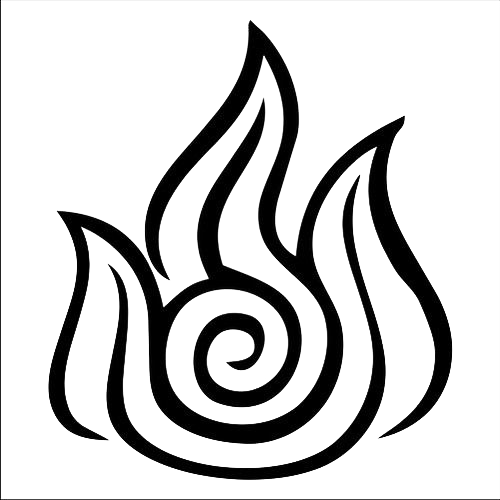
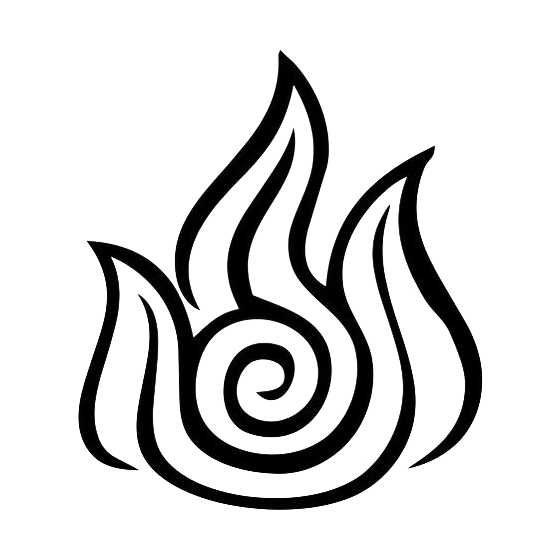
Fix(Elements): eliminate image crop border lines from PNGs and expand crest size to half-screen in the corner

Changed region(s): [[0.09, 0.03, 0.93, 0.96], [0.0, 0.99, 1.0, 1.0]]

diff --git a/index.html b/index.html
@@ -6927,11 +6927,13 @@ body.el-theme .el-theme-fx {
 /* --- СТИХИЯ: СВЯЩЕННЫЕ СИМВОЛЫ СТИХИЙ НА ФОНЕ (ELEMENTAL CRESTS) --- */
 .el-theme-crest {
   position: absolute;
-  bottom: clamp(20px, 5vh, 70px);
-  right: clamp(15px, 4vw, 70px);
-  width: clamp(230px, 30vw, 420px);
-  height: clamp(230px, 30vw, 420px);
-  background-position: center;
+  bottom: clamp(0px, 2vh, 40px);
+  right: clamp(0px, 2vw, 40px);
+  width: clamp(300px, 50vw, 680px);
+  height: clamp(300px, 50vw, 680px);
+  max-width: 80vw;
+  max-height: 80vh;
+  background-position: bottom right;
   background-repeat: no-repeat;
   background-size: contain;
   pointer-events: none;
@@ -6939,18 +6941,18 @@ body.el-theme .el-theme-fx {
   will-change: transform, opacity;
   transform-origin: bottom right;
   animation: elCrestBreath 8s ease-in-out infinite alternate;
-  -webkit-mask-image: radial-gradient(circle at center, #000 60%, transparent 96%);
-  mask-image: radial-gradient(circle at center, #000 60%, transparent 96%);
+  -webkit-mask-image: radial-gradient(circle at 75% 75%, #000 65%, transparent 100%);
+  mask-image: radial-gradient(circle at 75% 75%, #000 65%, transparent 100%);
 }
 
 @keyframes elCrestBreath {
   0% {
-    opacity: 0.16;
+    opacity: 0.14;
     transform: scale(0.96);
   }
   100% {
-    opacity: 0.26;
-    transform: scale(1.04);
+    opacity: 0.22;
+    transform: scale(1.03);
   }
 }
 

diff --git a/sw.js b/sw.js
@@ -1,4 +1,4 @@
-const CACHE_NAME = 'compendium-cache-v10';
+const CACHE_NAME = 'compendium-cache-v11';
 const APP_SHELL = [
   './',
   './index.html',
